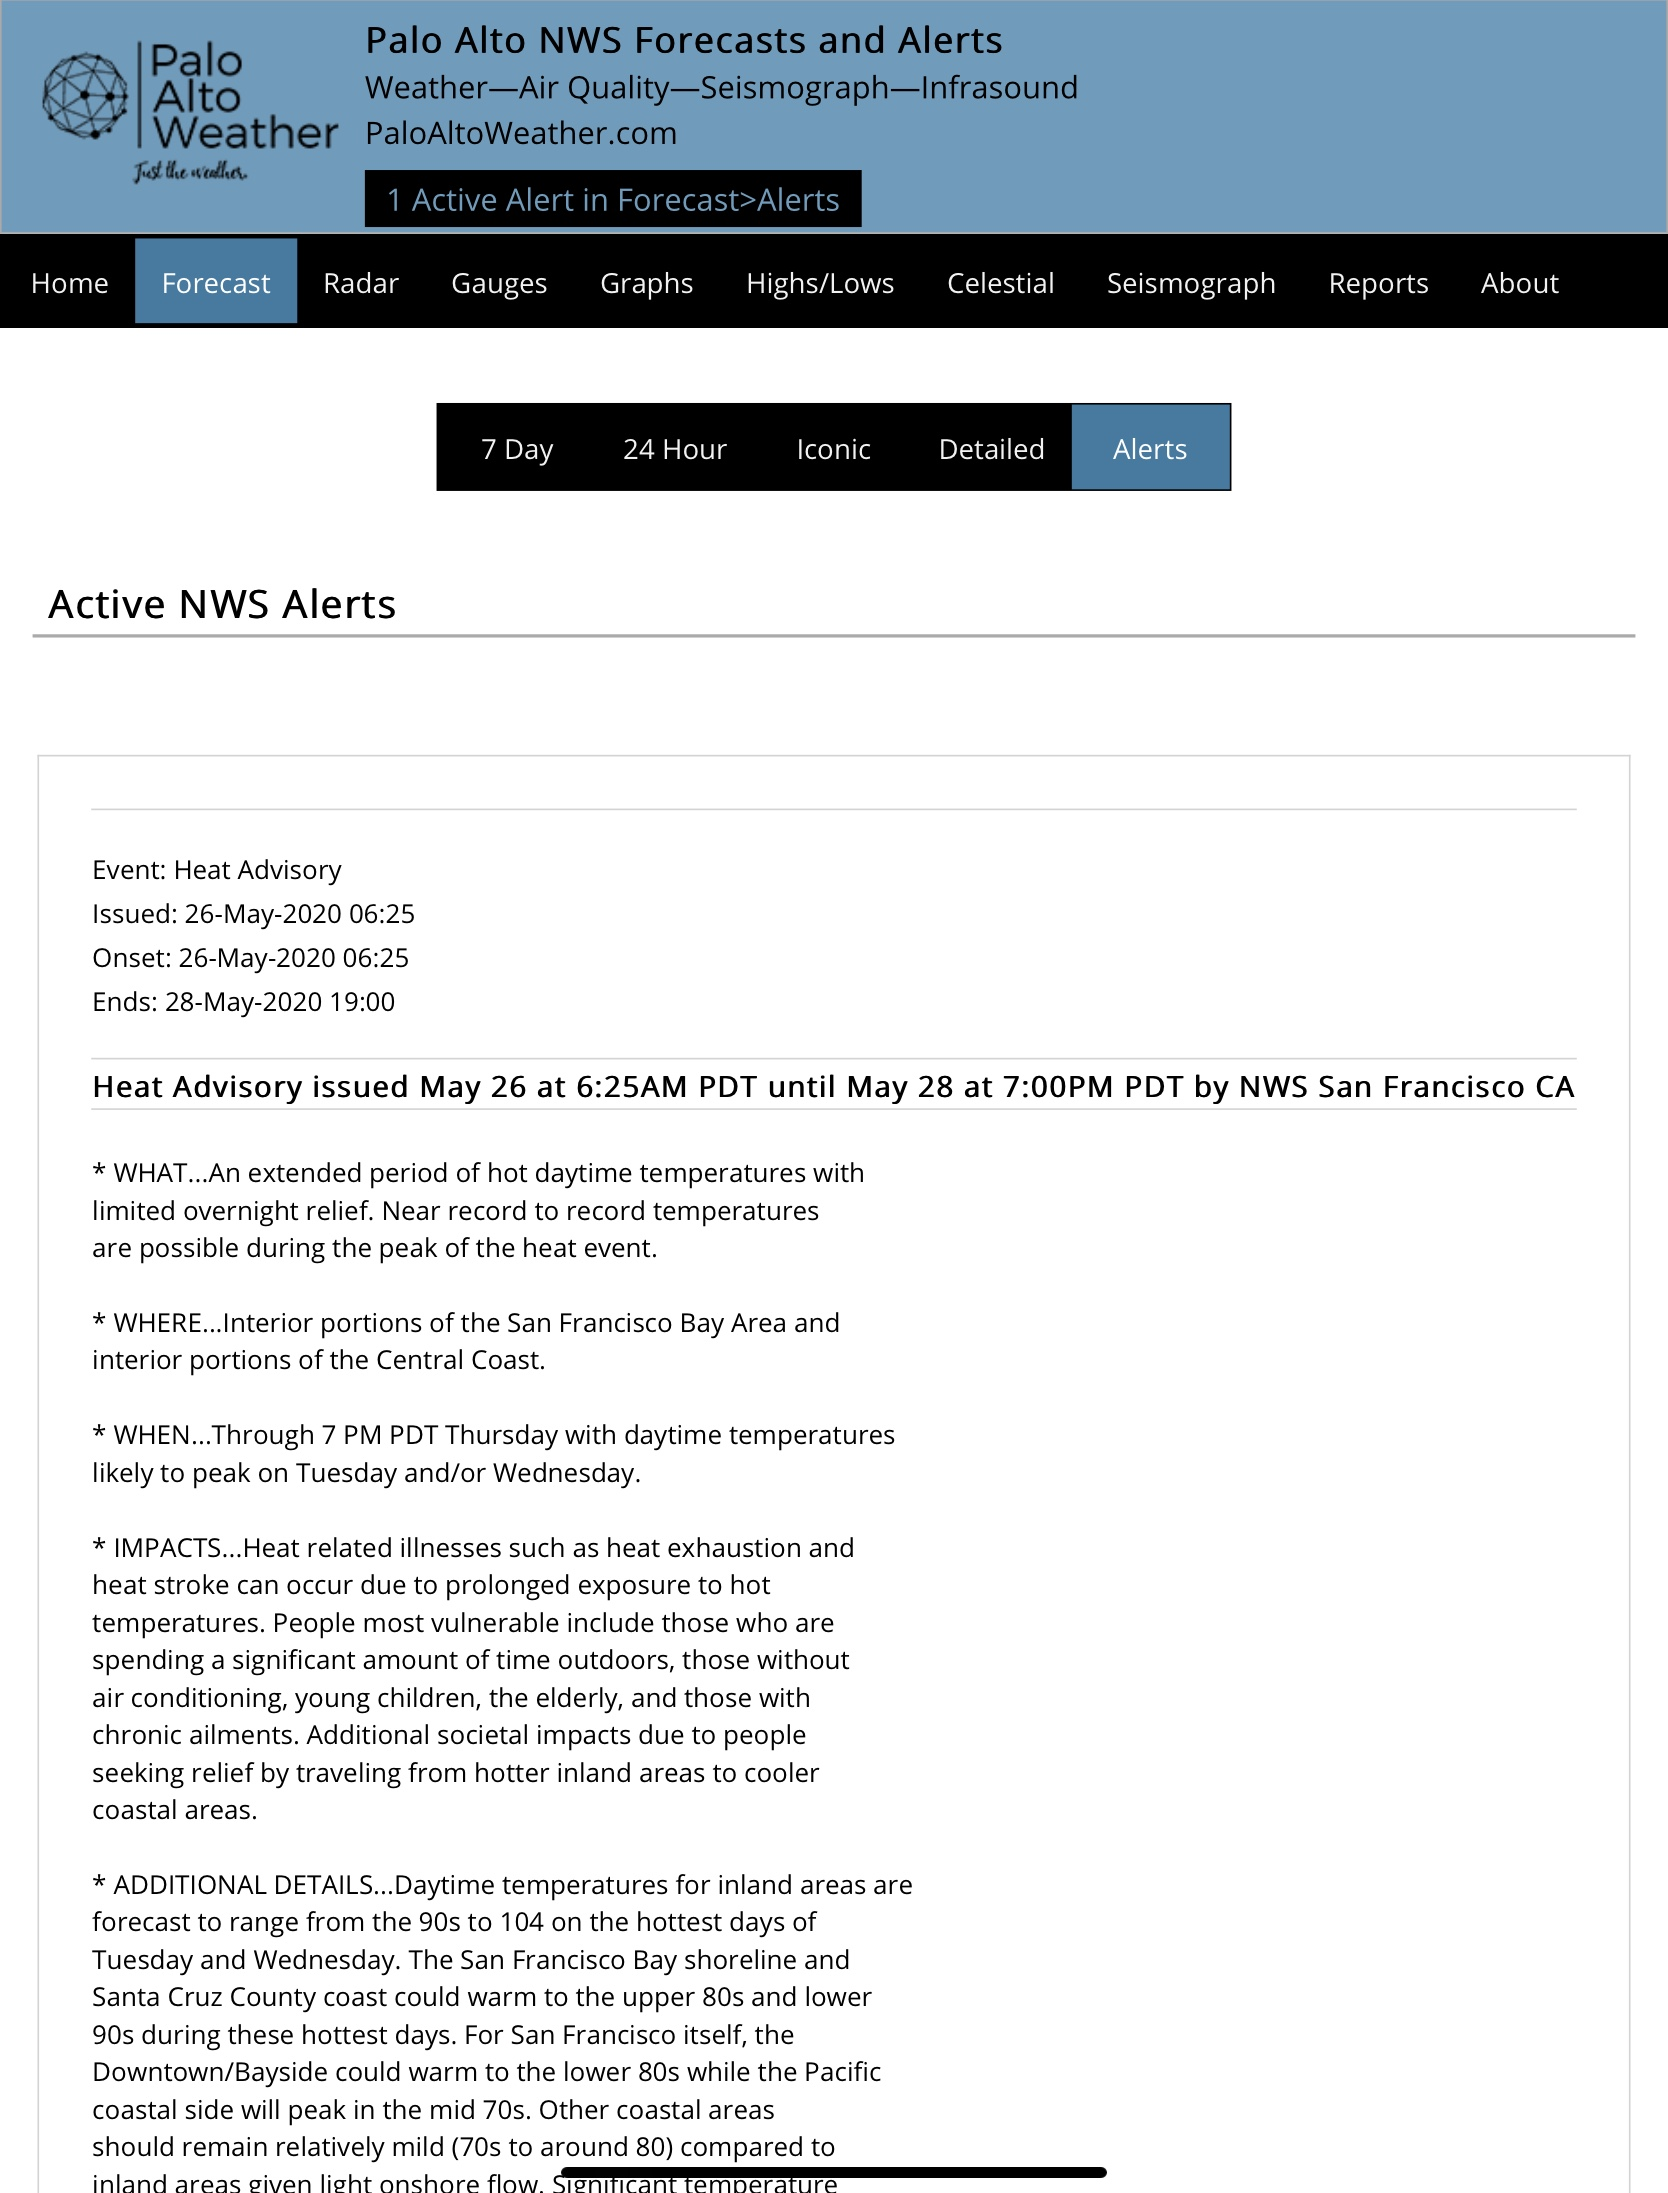
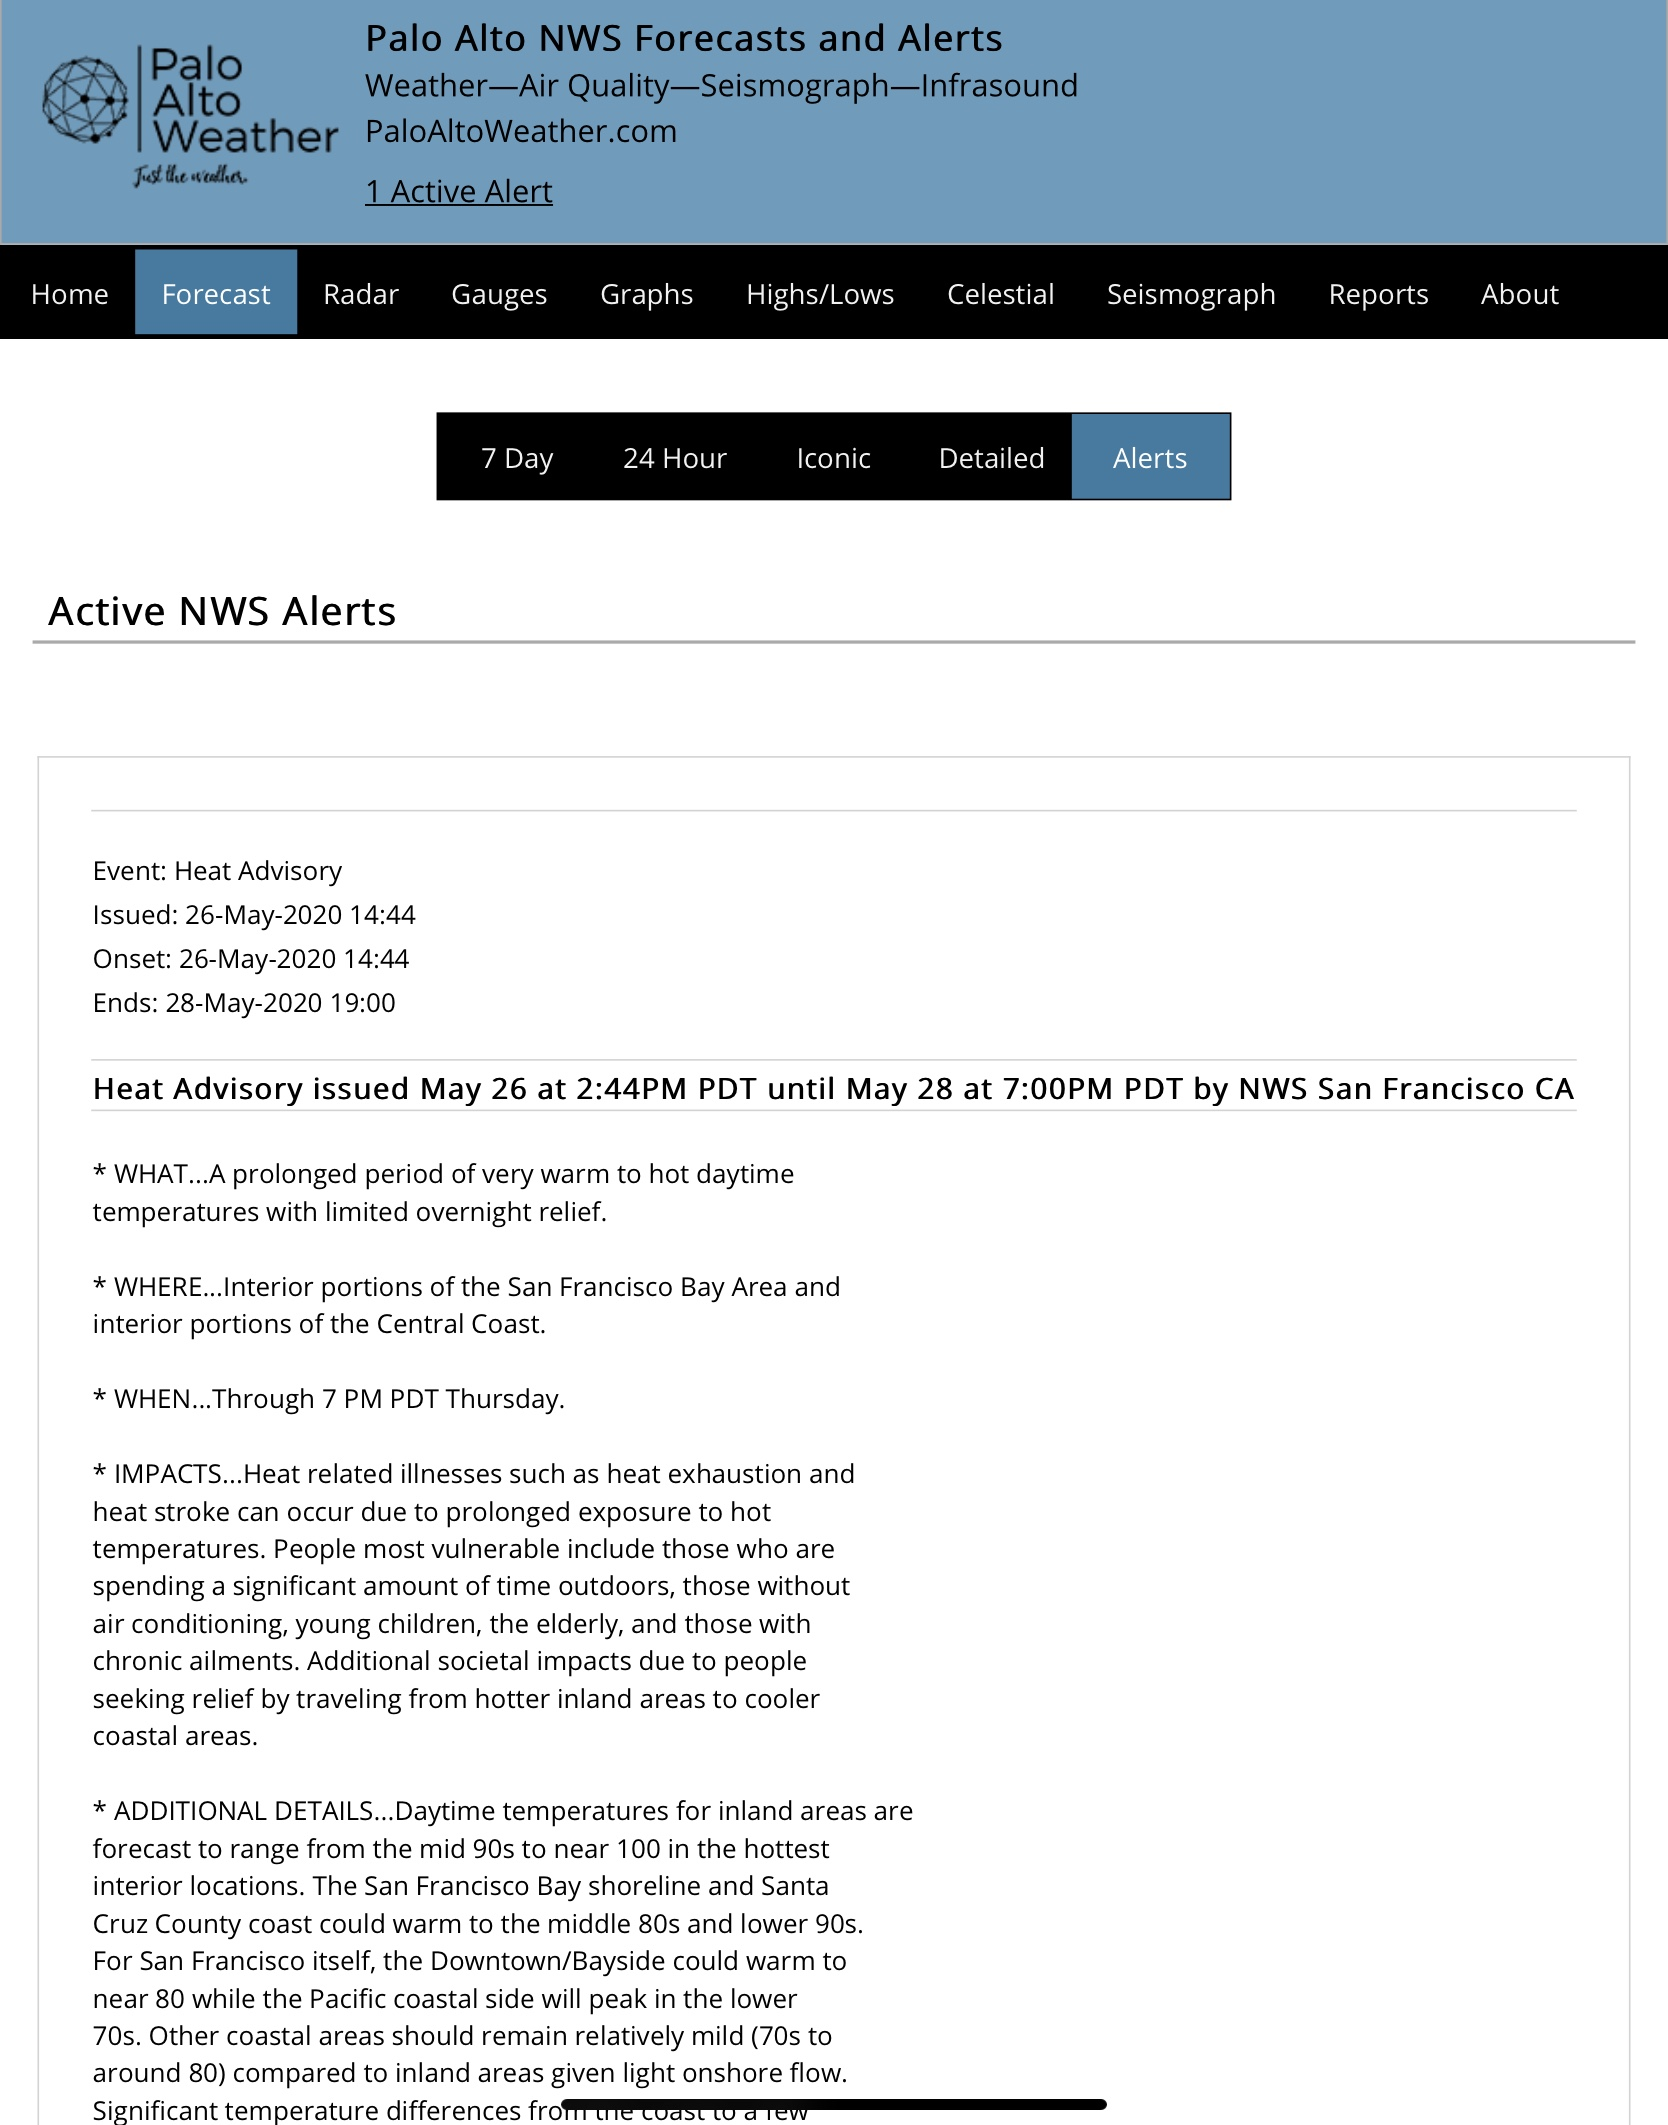
Update screenshots.

Changed region(s): [[0.0312, 0.3727, 0.9353, 1.0], [0.0, 0.0, 1.0, 0.2485], [0.0312, 0.2485, 0.9664, 0.3106]]

diff --git a/README.md b/README.md
@@ -194,9 +194,7 @@ Copyright (C)2020 by John A Kline (john@johnkline.com)
          #else
            #set alert_word = 'Alerts'
          #end if
-                 <table class="lastupdate" style="padding:10px;font-size:19px;color:red;background-color:black;">
-                   <tr><td>$alert_count Active $alert_word in Forecast>Alerts</td></tr>
-                 </table>
+         <p><a href='forecast.html?tab=alerts' style='font-size:19px;color:black;text-decoration:underline;'>$alert_count Active $alert_word</a></p>
        #end if
     ```
 
